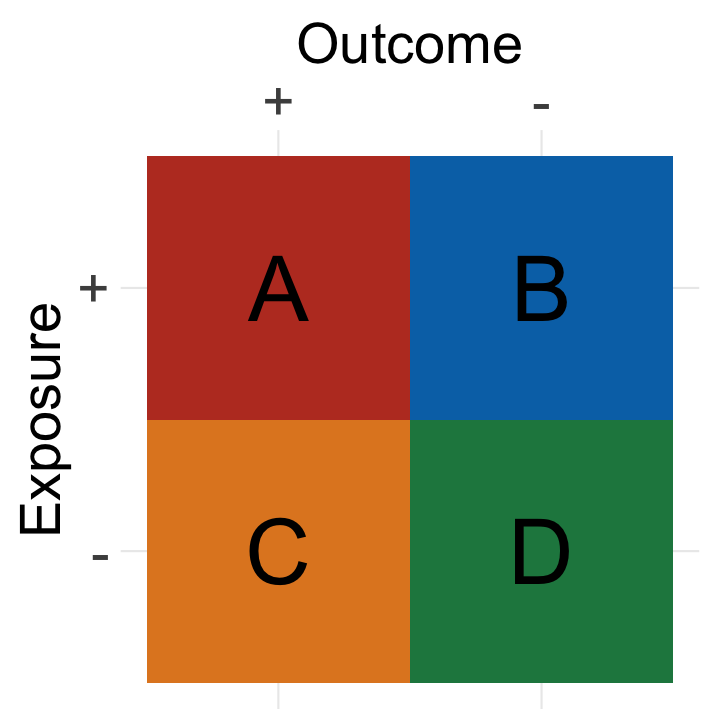
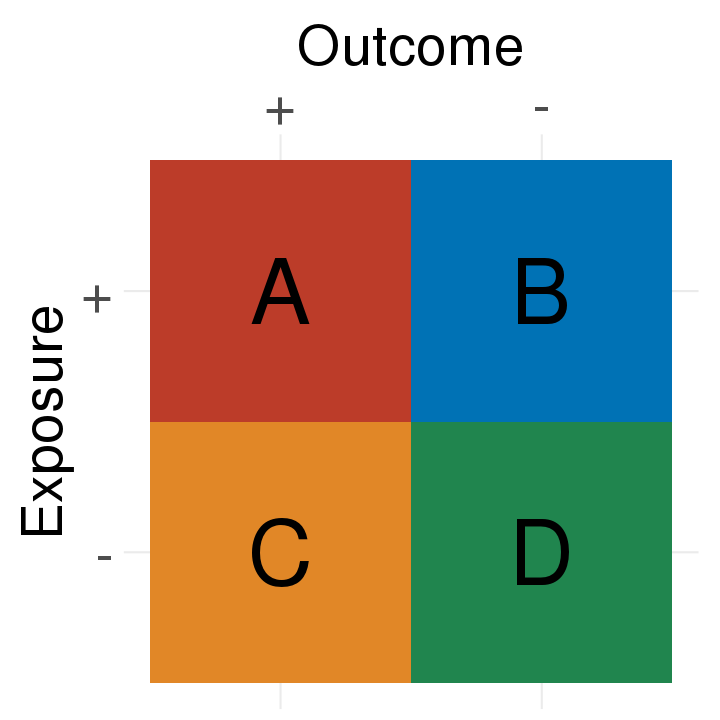
Adjusted figure positioning, font size, line width to improve visibility.

diff --git a/measures_of_disease_in_epidemiology_2019_bjk.html b/measures_of_disease_in_epidemiology_2019_bjk.html
@@ -20,7 +20,7 @@ class: center, middle, inverse, title-slide
 <hr/>
 ### Brendan J. Kelly
 ### Infectious Diseases &amp; Epidemiology<br/><br/><img src="penn_logos/Penn-Shield-Logotype-White-over-Blue-RGB-Expanded.svg" width="160" />
-### updated: 2019-08-21
+### updated: 2019-08-22
 
 ---
 
@@ -378,8 +378,6 @@ class: inverse, center, middle
     - what’s the denominator?
     - what’s the prevalence?
 
---
-
 - __Point prevalence__ of _Pneumocystis_ would be vanishingly small given limited duration of disease.
 
 - In 1967, even the __period prevalence__ is very small.
@@ -613,10 +611,8 @@ class: inverse, center, middle
 
 ---
 
-# Measuring True Risk versus Odds &lt;hr/&gt;
-
-<div id="htmlwidget-82bbc9ace911760d869d" style="width:1152px;height:360px;" class="grViz html-widget"></div>
-<script type="application/json" data-for="htmlwidget-82bbc9ace911760d869d">{"x":{"diagram":"digraph {\n\ngraph [layout = \"neato\",\n       outputorder = \"edgesfirst\",\n       bgcolor = \"white\"]\n\nnode [fontname = \"Helvetica\",\n      fontsize = \"10\",\n      shape = \"circle\",\n      fixedsize = \"true\",\n      width = \"0.5\",\n      style = \"filled\",\n      fillcolor = \"aliceblue\",\n      color = \"gray70\",\n      fontcolor = \"gray50\"]\n\nedge [fontname = \"Helvetica\",\n     fontsize = \"8\",\n     len = \"1.5\",\n     color = \"gray80\",\n     arrowsize = \"0.5\"]\n\n  \"1\" [label = \"Study\nDesign\", color = \"black\", fontsize = \"6\", fontcolor = \"black\", fillcolor = \"#E5E5E5\", pos = \"-3,0!\"] \n  \"2\" [label = \"Cohort\", color = \"black\", fontsize = \"6\", fontcolor = \"black\", fillcolor = \"#E5E5E5\", pos = \"-2,0!\"] \n  \"3\" [label = \"Randomized\nControlled\nTrial\", color = \"black\", fontsize = \"5.5\", fontcolor = \"black\", fillcolor = \"#E5E5E5\", pos = \"-2,1!\"] \n  \"4\" [label = \"Case-\nControl\", color = \"black\", fontsize = \"6\", fontcolor = \"black\", fillcolor = \"#E5E5E5\", pos = \"-2,-1!\"] \n  \"5\" [label = \"Denominator\nKnown\", color = \"black\", fontsize = \"6\", fontcolor = \"black\", fillcolor = \"#00FF00\", pos = \"-1,0.5!\"] \n  \"6\" [label = \"Denominator\nUnknown\", color = \"black\", fontsize = \"6\", fontcolor = \"black\", fillcolor = \"#1E90FF\", pos = \"-1,-0.5!\"] \n  \"7\" [label = \"Measure\nTrue\nRisk\", color = \"black\", fontsize = \"6\", fontcolor = \"black\", fillcolor = \"#E5E5E5\", pos = \"0,0.5!\"] \n  \"8\" [label = \"Measure\nOdds\", color = \"black\", fontsize = \"6\", fontcolor = \"black\", fillcolor = \"#E5E5E5\", pos = \"0,-0.5!\"] \n  \"9\" [label = \"Relative\nRisk\", color = \"black\", fontsize = \"6\", fontcolor = \"black\", fillcolor = \"#E5E5E5\", pos = \"1,0.5!\"] \n  \"10\" [label = \"Odds\nRatio\", color = \"black\", fontsize = \"6\", fontcolor = \"black\", fillcolor = \"#E5E5E5\", pos = \"1,-0.5!\"] \n  \"11\" [label = \"AR\nARR\nNNT\", color = \"black\", fontsize = \"6\", fontcolor = \"black\", fillcolor = \"#E5E5E5\", pos = \"2,0.5!\"] \n\"1\"->\"2\" [color = \"black\"] \n\"1\"->\"3\" [color = \"black\"] \n\"1\"->\"4\" [color = \"black\"] \n\"2\"->\"5\" [color = \"black\"] \n\"3\"->\"5\" [color = \"black\"] \n\"4\"->\"6\" [color = \"black\"] \n\"5\"->\"7\" [color = \"black\"] \n\"6\"->\"8\" [color = \"black\"] \n\"7\"->\"9\" [color = \"black\"] \n\"8\"->\"10\" [color = \"black\"] \n\"9\"->\"11\" [color = \"black\"] \n}","config":{"engine":"dot","options":null}},"evals":[],"jsHooks":[]}</script>
+<div id="htmlwidget-bb1976c6c29a75ce5455" style="width:1080px;height:648px;" class="grViz html-widget"></div>
+<script type="application/json" data-for="htmlwidget-bb1976c6c29a75ce5455">{"x":{"diagram":"digraph {\n\ngraph [layout = \"neato\",\n       outputorder = \"edgesfirst\",\n       bgcolor = \"white\"]\n\nnode [fontname = \"Helvetica\",\n      fontsize = \"10\",\n      shape = \"circle\",\n      fixedsize = \"true\",\n      width = \"0.5\",\n      style = \"filled\",\n      fillcolor = \"aliceblue\",\n      color = \"gray70\",\n      fontcolor = \"gray50\"]\n\nedge [fontname = \"Helvetica\",\n     fontsize = \"8\",\n     len = \"1.5\",\n     color = \"gray80\",\n     arrowsize = \"0.5\"]\n\n  \"1\" [label = \"Study\nDesign\", color = \"black\", fontsize = \"6\", fontcolor = \"black\", fillcolor = \"#E5E5E5\", pos = \"-3,0!\"] \n  \"2\" [label = \"Cohort\", color = \"black\", fontsize = \"6\", fontcolor = \"black\", fillcolor = \"#E5E5E5\", pos = \"-2,0!\"] \n  \"3\" [label = \"Randomized\nControlled\nTrial\", color = \"black\", fontsize = \"5.5\", fontcolor = \"black\", fillcolor = \"#E5E5E5\", pos = \"-2,1!\"] \n  \"4\" [label = \"Case-\nControl\", color = \"black\", fontsize = \"6\", fontcolor = \"black\", fillcolor = \"#E5E5E5\", pos = \"-2,-1!\"] \n  \"5\" [label = \"Denominator\nKnown\", color = \"black\", fontsize = \"6\", fontcolor = \"black\", fillcolor = \"#00FF00\", pos = \"-1,0.5!\"] \n  \"6\" [label = \"Denominator\nUnknown\", color = \"black\", fontsize = \"6\", fontcolor = \"black\", fillcolor = \"#1E90FF\", pos = \"-1,-0.5!\"] \n  \"7\" [label = \"Measure\nRisk\n(Incidence)\", color = \"black\", fontsize = \"6\", fontcolor = \"black\", fillcolor = \"#E5E5E5\", pos = \"0,0.5!\"] \n  \"8\" [label = \"Measure\nOdds\", color = \"black\", fontsize = \"6\", fontcolor = \"black\", fillcolor = \"#E5E5E5\", pos = \"0,-0.5!\"] \n  \"9\" [label = \"Relative\nRisk\", color = \"black\", fontsize = \"6\", fontcolor = \"black\", fillcolor = \"#E5E5E5\", pos = \"1,0.5!\"] \n  \"10\" [label = \"Odds\nRatio\", color = \"black\", fontsize = \"6\", fontcolor = \"black\", fillcolor = \"#E5E5E5\", pos = \"1,-0.5!\"] \n  \"11\" [label = \"AR\nARR\nNNT\", color = \"black\", fontsize = \"6\", fontcolor = \"black\", fillcolor = \"#E5E5E5\", pos = \"2,0.5!\"] \n\"1\"->\"2\" [color = \"black\"] \n\"1\"->\"3\" [color = \"black\"] \n\"1\"->\"4\" [color = \"black\"] \n\"2\"->\"5\" [color = \"black\"] \n\"3\"->\"5\" [color = \"black\"] \n\"4\"->\"6\" [color = \"black\"] \n\"5\"->\"7\" [color = \"black\"] \n\"6\"->\"8\" [color = \"black\"] \n\"7\"->\"9\" [color = \"black\"] \n\"8\"->\"10\" [color = \"black\"] \n\"9\"->\"11\" [color = \"black\"] \n}","config":{"engine":"dot","options":null}},"evals":[],"jsHooks":[]}</script>
 
 
 ---
@@ -637,13 +633,17 @@ class: inverse, center, middle
 
 # “2x2” Table: Calculation for Cohort/Trial &lt;hr/&gt;
 
+.pull-left[
 - Relative Risk (RR)= [A/(A+B) / C/(C+D)]
 
 - Absolute Risk Reduction (ARR) = [A/(A+B) – C/(C+D)]
 
 - Number Needed to Treat (NNT)= 1/ARR
+]
 
+.pull-right[
 &lt;img src="measures_of_disease_in_epidemiology_2019_bjk_files/figure-html/unnamed-chunk-2-1.png" width="360" style="display: block; margin: auto;" /&gt;
+]
 
 ---
 
